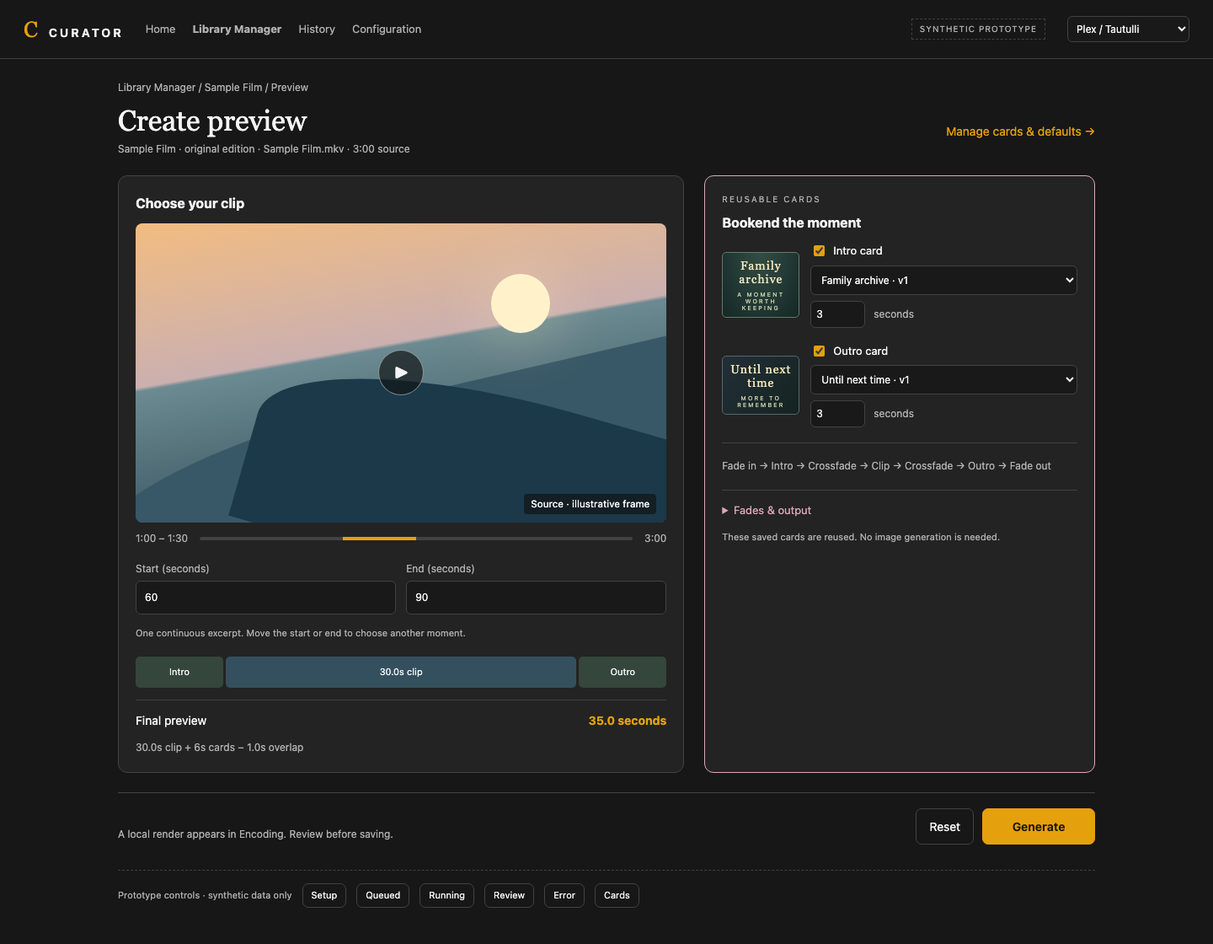
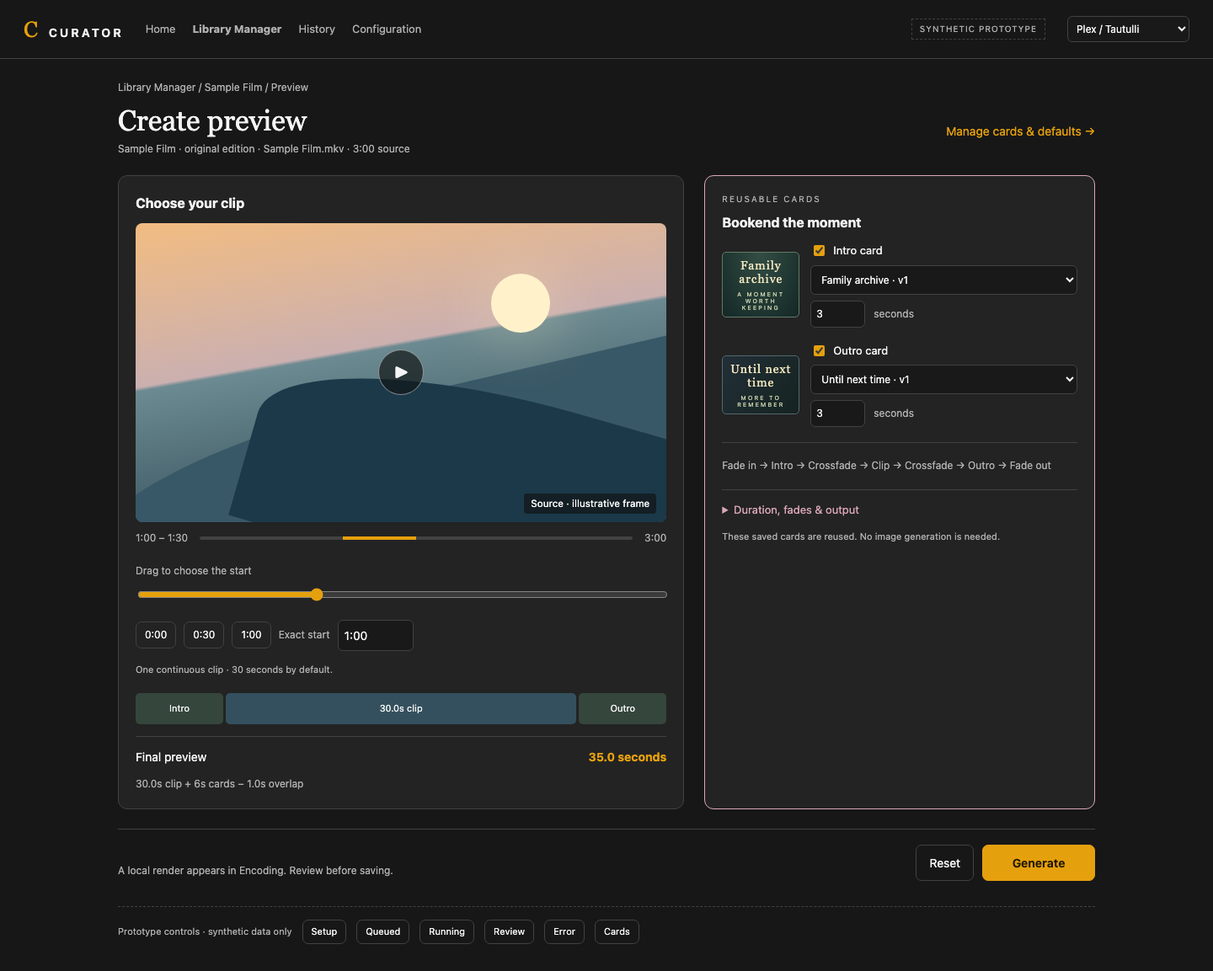
Use approved start slider and 30-second clip selection

diff --git a/docs/designs/v2-trailer-cards-20261121/prototype.html b/docs/designs/v2-trailer-cards-20261121/prototype.html
@@ -7,7 +7,7 @@
 :root{color-scheme:dark;--bg:#101415;--panel:#181e20;--field:#101718;--line:#303b3d;--text:#eceee8;--muted:#a3afac;--accent:#c8df9b;--ink:#182314;--pink:#e6adc7;--warn:#f3ba88}
 body[data-theme=cyberpunk]{--bg:#0a0c1b;--panel:#17182f;--field:#0c1023;--line:#42435f;--text:#f6eefb;--muted:#b9afc9;--accent:#ff62ce;--ink:#2b0c24;--pink:#ff62ce}
 body[data-theme=plex]{--bg:#171717;--panel:#232323;--field:#191919;--line:#424242;--text:#f5f5f5;--muted:#b2b2b2;--accent:#e5a00d;--ink:#201600;--pink:#dca8b9}
-*{box-sizing:border-box}body{margin:0;background:var(--bg);color:var(--text);font:14px/1.5 -apple-system,BlinkMacSystemFont,"Segoe UI",sans-serif}button,input,select{font:inherit}button,a{touch-action:manipulation}button{cursor:pointer;background:transparent;color:var(--text);border:1px solid var(--line);border-radius:7px;padding:10px 15px;white-space:nowrap}button:hover{border-color:var(--accent)}button:disabled{opacity:.45;cursor:default}button:focus-visible,input:focus-visible,select:focus-visible,a:focus-visible{outline:2px solid var(--accent);outline-offset:3px}.primary{background:var(--accent);color:var(--ink);border-color:var(--accent);font-weight:650;min-width:134px}.link{border:0;padding:6px 0;color:var(--accent);text-align:left}a{color:var(--accent)}input,select{color:var(--text);background:var(--field);border:1px solid var(--line);border-radius:6px;padding:10px;width:100%;min-width:0}input[type=checkbox]{width:auto;accent-color:var(--accent)}header{display:flex;align-items:center;gap:26px;padding:15px 28px;border-bottom:1px solid var(--line);min-height:70px}.brand{letter-spacing:3px;font-weight:650}.brand b{font:26px Georgia;color:var(--accent);margin-right:10px}header nav{display:flex;gap:20px;color:var(--muted);font-size:13px}.badge{margin-left:auto;font-size:10px;color:var(--muted);border:1px dashed var(--line);padding:4px 9px;letter-spacing:1px}.theme{width:145px;padding:6px;font-size:12px}main{max-width:1220px;margin:auto;padding:25px 30px 32px}.crumb{color:var(--muted);font-size:12px}.titlebar{display:flex;align-items:center;justify-content:space-between;gap:15px;margin:11px 0 22px}h1{font:34px Georgia,serif;margin:0 0 6px}h2{font-size:16px;margin:0 0 12px}h3{font-size:13px;margin:0 0 9px}p{margin:8px 0}.muted,small{color:var(--muted)}.muted{font-size:12px}.eyebrow{text-transform:uppercase;font-size:10px;letter-spacing:2px;color:var(--muted);margin-bottom:8px}.grid{display:grid;grid-template-columns:minmax(0,1.45fr) minmax(310px,1fr);gap:24px}.panel{background:var(--panel);border:1px solid var(--line);border-radius:11px;padding:20px;min-width:0}.inspector{border-color:var(--pink)}.scene{position:relative;aspect-ratio:16/9;overflow:hidden;border-radius:8px;background:linear-gradient(170deg,#f2bc81 0%,#cbb0b0 42%,#6c8a91 43%,#223d4b 100%);display:grid;place-items:center}.scene:before,.scene:after{content:"";position:absolute;width:130%;height:65%;left:-10%;bottom:-22%;background:#385867;transform:rotate(-13deg);border-radius:45% 0 0}.scene:after{left:20%;bottom:-31%;background:#1b3949;transform:rotate(16deg)}.sun{position:absolute;top:17%;left:67%;width:11%;aspect-ratio:1;border-radius:50%;background:#fff2cb;box-shadow:0 0 75px #ffe6b277}.scene .play{z-index:1;font-size:22px;border-radius:50%;width:54px;height:54px;padding:0;background:#101415b0;border-color:#fff7}.scene small{position:absolute;bottom:10px;right:12px;z-index:1;color:#fff;background:#101415b0;padding:3px 8px;border-radius:4px}.playerbar{display:flex;align-items:center;justify-content:space-between;gap:14px;margin:10px 0 18px;color:var(--muted);font-size:12px}.line{height:4px;border-radius:3px;background:var(--line);flex:1;position:relative}.line:after{content:"";position:absolute;left:33%;width:17%;height:4px;background:var(--accent)}.range{display:grid;grid-template-columns:1fr 1fr;gap:12px}.range label{font-size:12px;color:var(--muted);display:block}.range input{margin-top:5px}.timeline{display:flex;margin:20px 0 10px;height:37px;gap:3px;font-size:11px}.timeline div{display:grid;place-items:center;min-width:45px;border-radius:5px;background:#35463c;flex:3}.timeline .clip{flex:12;background:#34505e}.summary{display:flex;justify-content:space-between;gap:15px;padding:13px 0;border-top:1px solid var(--line);margin-top:14px}.summary strong{color:var(--accent)}.cardrow{display:grid;grid-template-columns:92px minmax(0,1fr);gap:13px;align-items:center;margin:10px 0 18px}.stock{aspect-ratio:16/9;background:radial-gradient(ellipse at top,#334d44,#142827);border:1px solid #627b64;display:flex;align-items:center;justify-content:center;flex-direction:column;border-radius:5px;color:#f2e6bd;text-align:center;padding:7px;line-height:1.15}.stock strong{font:14px Georgia,serif;letter-spacing:1px}.stock small{font-size:7px;letter-spacing:2px;color:#cad4ad;margin-top:6px}.stock.end{background:linear-gradient(130deg,#222f38,#152320);border-color:#53686c}.cardrow label{display:flex;align-items:center;gap:7px;margin-bottom:7px;font-size:13px}.cardrow select{font-size:12px;padding:8px}.duration{display:flex;align-items:center;gap:10px;margin-top:7px;font-size:12px;color:var(--muted)}.duration input{width:65px;padding:6px}.divider{border:0;border-top:1px solid var(--line);margin:16px 0}.flow{font-size:12px;color:var(--muted);line-height:1.9}details{border-top:1px solid var(--line);padding-top:14px;margin-top:16px}summary{cursor:pointer;color:var(--pink);font-size:13px}details .range{margin-top:14px}.footer{display:flex;justify-content:space-between;align-items:center;gap:15px;margin-top:23px;padding-top:18px;border-top:1px solid var(--line)}.footer .actions{display:flex;gap:10px}.note{font-size:11px;color:var(--muted);margin-top:14px}.error{color:var(--warn);font-size:12px;min-height:18px}.banner{border:1px solid #607454;background:#263328;border-radius:8px;padding:13px 16px;margin-bottom:20px;color:var(--text)}.job{max-width:800px;margin:26px auto}.job h1{font-size:30px}.jobbody{display:flex;gap:18px;align-items:center}.job .scene{width:185px;flex-shrink:0}.job .stock{width:150px}.pill{display:inline-block;border:1px solid var(--line);border-radius:20px;padding:4px 10px;color:var(--accent);font-size:12px;margin-bottom:14px}progress{width:100%;height:9px;accent-color:var(--accent);margin-top:14px}.demobar{margin-top:30px;border-top:1px dashed var(--line);padding-top:15px;display:flex;gap:12px;flex-wrap:wrap;align-items:center;font-size:11px;color:var(--muted)}.demobar button{font-size:11px;padding:5px 10px}.library{display:grid;grid-template-columns:repeat(2,1fr);gap:18px}.library .stock{aspect-ratio:16/9;max-width:350px;margin-bottom:13px}.library .stock strong{font-size:26px}.library .stock small{font-size:10px}.widefields{max-width:700px;margin-top:24px}dialog{background:var(--panel);color:var(--text);border:1px solid var(--pink);border-radius:12px;padding:24px;max-width:470px;width:90vw}dialog::backdrop{background:#020405bd}dialog .actions{display:flex;justify-content:flex-end;gap:10px;margin-top:20px}.skip{position:absolute;left:12px;top:-60px;background:var(--panel);padding:10px;z-index:10}.skip:focus{top:8px}
+*{box-sizing:border-box}body{margin:0;background:var(--bg);color:var(--text);font:14px/1.5 -apple-system,BlinkMacSystemFont,"Segoe UI",sans-serif}button,input,select{font:inherit}button,a{touch-action:manipulation}button{cursor:pointer;background:transparent;color:var(--text);border:1px solid var(--line);border-radius:7px;padding:10px 15px;white-space:nowrap}button:hover{border-color:var(--accent)}button:disabled{opacity:.45;cursor:default}button:focus-visible,input:focus-visible,select:focus-visible,a:focus-visible{outline:2px solid var(--accent);outline-offset:3px}.primary{background:var(--accent);color:var(--ink);border-color:var(--accent);font-weight:650;min-width:134px}.link{border:0;padding:6px 0;color:var(--accent);text-align:left}a{color:var(--accent)}input,select{color:var(--text);background:var(--field);border:1px solid var(--line);border-radius:6px;padding:10px;width:100%;min-width:0}input[type=checkbox]{width:auto;accent-color:var(--accent)}header{display:flex;align-items:center;gap:26px;padding:15px 28px;border-bottom:1px solid var(--line);min-height:70px}.brand{letter-spacing:3px;font-weight:650}.brand b{font:26px Georgia;color:var(--accent);margin-right:10px}header nav{display:flex;gap:20px;color:var(--muted);font-size:13px}.badge{margin-left:auto;font-size:10px;color:var(--muted);border:1px dashed var(--line);padding:4px 9px;letter-spacing:1px}.theme{width:145px;padding:6px;font-size:12px}main{max-width:1220px;margin:auto;padding:25px 30px 32px}.crumb{color:var(--muted);font-size:12px}.titlebar{display:flex;align-items:center;justify-content:space-between;gap:15px;margin:11px 0 22px}h1{font:34px Georgia,serif;margin:0 0 6px}h2{font-size:16px;margin:0 0 12px}h3{font-size:13px;margin:0 0 9px}p{margin:8px 0}.muted,small{color:var(--muted)}.muted{font-size:12px}.eyebrow{text-transform:uppercase;font-size:10px;letter-spacing:2px;color:var(--muted);margin-bottom:8px}.grid{display:grid;grid-template-columns:minmax(0,1.45fr) minmax(310px,1fr);gap:24px}.panel{background:var(--panel);border:1px solid var(--line);border-radius:11px;padding:20px;min-width:0}.inspector{border-color:var(--pink)}.scene{position:relative;aspect-ratio:16/9;overflow:hidden;border-radius:8px;background:linear-gradient(170deg,#f2bc81 0%,#cbb0b0 42%,#6c8a91 43%,#223d4b 100%);display:grid;place-items:center}.scene:before,.scene:after{content:"";position:absolute;width:130%;height:65%;left:-10%;bottom:-22%;background:#385867;transform:rotate(-13deg);border-radius:45% 0 0}.scene:after{left:20%;bottom:-31%;background:#1b3949;transform:rotate(16deg)}.sun{position:absolute;top:17%;left:67%;width:11%;aspect-ratio:1;border-radius:50%;background:#fff2cb;box-shadow:0 0 75px #ffe6b277}.scene .play{z-index:1;font-size:22px;border-radius:50%;width:54px;height:54px;padding:0;background:#101415b0;border-color:#fff7}.scene small{position:absolute;bottom:10px;right:12px;z-index:1;color:#fff;background:#101415b0;padding:3px 8px;border-radius:4px}.playerbar{display:flex;align-items:center;justify-content:space-between;gap:14px;margin:10px 0 18px;color:var(--muted);font-size:12px}.line{height:4px;border-radius:3px;background:var(--line);flex:1;position:relative}.line:after{content:"";position:absolute;left:33%;width:17%;height:4px;background:var(--accent)}.quickpicks{display:flex;align-items:center;gap:9px;flex-wrap:wrap;margin-top:8px}.quickpicks button{padding:6px 10px;font-size:12px}.range{display:grid;grid-template-columns:1fr 1fr;gap:12px}.range label{font-size:12px;color:var(--muted);display:block}.range input{margin-top:5px}.timeline{display:flex;margin:20px 0 10px;height:37px;gap:3px;font-size:11px}.timeline div{display:grid;place-items:center;min-width:45px;border-radius:5px;background:#35463c;flex:3}.timeline .clip{flex:12;background:#34505e}.summary{display:flex;justify-content:space-between;gap:15px;padding:13px 0;border-top:1px solid var(--line);margin-top:14px}.summary strong{color:var(--accent)}.cardrow{display:grid;grid-template-columns:92px minmax(0,1fr);gap:13px;align-items:center;margin:10px 0 18px}.stock{aspect-ratio:16/9;background:radial-gradient(ellipse at top,#334d44,#142827);border:1px solid #627b64;display:flex;align-items:center;justify-content:center;flex-direction:column;border-radius:5px;color:#f2e6bd;text-align:center;padding:7px;line-height:1.15}.stock strong{font:14px Georgia,serif;letter-spacing:1px}.stock small{font-size:7px;letter-spacing:2px;color:#cad4ad;margin-top:6px}.stock.end{background:linear-gradient(130deg,#222f38,#152320);border-color:#53686c}.cardrow label{display:flex;align-items:center;gap:7px;margin-bottom:7px;font-size:13px}.cardrow select{font-size:12px;padding:8px}.duration{display:flex;align-items:center;gap:10px;margin-top:7px;font-size:12px;color:var(--muted)}.duration input{width:65px;padding:6px}.divider{border:0;border-top:1px solid var(--line);margin:16px 0}.flow{font-size:12px;color:var(--muted);line-height:1.9}details{border-top:1px solid var(--line);padding-top:14px;margin-top:16px}summary{cursor:pointer;color:var(--pink);font-size:13px}details .range{margin-top:14px}.footer{display:flex;justify-content:space-between;align-items:center;gap:15px;margin-top:23px;padding-top:18px;border-top:1px solid var(--line)}.footer .actions{display:flex;gap:10px}.note{font-size:11px;color:var(--muted);margin-top:14px}.error{color:var(--warn);font-size:12px;min-height:18px}.banner{border:1px solid #607454;background:#263328;border-radius:8px;padding:13px 16px;margin-bottom:20px;color:var(--text)}.job{max-width:800px;margin:26px auto}.job h1{font-size:30px}.jobbody{display:flex;gap:18px;align-items:center}.job .scene{width:185px;flex-shrink:0}.job .stock{width:150px}.pill{display:inline-block;border:1px solid var(--line);border-radius:20px;padding:4px 10px;color:var(--accent);font-size:12px;margin-bottom:14px}progress{width:100%;height:9px;accent-color:var(--accent);margin-top:14px}.demobar{margin-top:30px;border-top:1px dashed var(--line);padding-top:15px;display:flex;gap:12px;flex-wrap:wrap;align-items:center;font-size:11px;color:var(--muted)}.demobar button{font-size:11px;padding:5px 10px}.library{display:grid;grid-template-columns:repeat(2,1fr);gap:18px}.library .stock{aspect-ratio:16/9;max-width:350px;margin-bottom:13px}.library .stock strong{font-size:26px}.library .stock small{font-size:10px}.widefields{max-width:700px;margin-top:24px}dialog{background:var(--panel);color:var(--text);border:1px solid var(--pink);border-radius:12px;padding:24px;max-width:470px;width:90vw}dialog::backdrop{background:#020405bd}dialog .actions{display:flex;justify-content:flex-end;gap:10px;margin-top:20px}.skip{position:absolute;left:12px;top:-60px;background:var(--panel);padding:10px;z-index:10}.skip:focus{top:8px}
 @media(max-width:850px){header nav{display:none}.grid{grid-template-columns:1fr}.titlebar{align-items:start}.library{grid-template-columns:1fr}.badge{display:none}main{padding:20px}.theme{margin-left:auto}h1{font-size:29px}}
 @media(max-width:450px){header{padding:12px 16px;gap:10px}.brand{font-size:12px;letter-spacing:2px}.brand b{margin-right:7px}.theme{width:116px;font-size:11px}main{padding:18px 14px}.panel{padding:16px}.titlebar{gap:8px}.titlebar>button{padding:7px 8px;font-size:11px}h1{font-size:27px}.footer{align-items:stretch;flex-direction:column}.footer .actions{justify-content:flex-end}.footer .primary{flex:1}.jobbody{align-items:start;flex-direction:column}.job .scene{width:100%}.cardrow{grid-template-columns:85px 1fr}.range{gap:10px}}
 </style>
@@ -20,14 +20,16 @@ body[data-theme=plex]{--bg:#171717;--panel:#232323;--field:#191919;--line:#42424
 <script>
 'use strict';
 const query=new URLSearchParams(location.search||location.hash.slice(1));
-const initial={start:60,end:90,intro:true,outro:true,introCard:'archive-intro',outroCard:'archive-outro',introSeconds:3,outroSeconds:3,crossfade:.5,blackFade:.35,audioFade:.5};
+const initial={start:60,end:90,duration:30,intro:true,outro:true,introCard:'archive-intro',outroCard:'archive-outro',introSeconds:3,outroSeconds:3,crossfade:.5,blackFade:.35,audioFade:.5};
 let draft={...initial},defaults={...initial},mode=query.get('s')||'setup',dirty=false,status=mode==='review'?'ready':mode==='failed'?'failed':mode==='running'?'running':'queued',paused=query.get('paused')==='1',saved=false,plan=null,message='',pending=null;
 const $=id=>document.getElementById(id),main=$('main');
-const time=n=>Number.isFinite(n)?`${Math.floor(n/60)}:${String(Math.round(n%60)).padStart(2,'0')}`:'—';
+const time=n=>{if(!Number.isFinite(n))return '—';const ms=Math.round(n*1000),sec=Math.floor(ms/1000),fraction=ms%1000,hours=Math.floor(sec/3600),minutes=Math.floor(sec%3600/60),seconds=String(sec%60).padStart(2,'0'),tail=fraction?'.'+String(fraction).padStart(3,'0').replace(/0+$/,''):'';return (hours?hours+':'+String(minutes).padStart(2,'0'):String(Math.floor(sec/60)))+':'+seconds+tail;};
+function parseTime(value){const text=value.trim();if(!/^(?:\d+:)?\d+:[0-5]\d(?:\.\d{1,3})?$/.test(text))return NaN;const parts=text.split(':').map(Number);if(parts.length===3&&parts[1]>=60)return NaN;return parts.reduce((total,part)=>total*60+part,0);}
+function syncRange(){draft.end=Number.isFinite(draft.start)&&Number.isFinite(draft.duration)?Math.min(180,draft.start+draft.duration):NaN;}
 function timing(d){const clip=d.end-d.start,overlap=(d.intro?d.crossfade:0)+(d.outro?d.crossfade:0);return {clip,overlap,total:clip+(d.intro?d.introSeconds:0)+(d.outro?d.outroSeconds:0)-overlap};}
 function problem(d){
  if(!Object.values(d).every(v=>typeof v!=='number'||Number.isFinite(v)))return 'Enter valid times.';
- const t=timing(d);if(d.start<0||d.end>180||t.clip<=0)return 'Choose a valid interval within the 3:00 source.';
+ const t=timing(d);if(d.duration<=0)return 'Choose a positive clip duration.';if(d.start<0||d.end>180||t.clip<=0)return 'Choose a valid interval within the 3:00 source.';
  if(d.crossfade<0||d.crossfade>2||d.blackFade<0||d.blackFade>2||d.audioFade<0||d.audioFade>2)return 'Fade durations must be between 0 and 2 seconds.';
  if((d.intro?d.crossfade:d.blackFade)+(d.outro?d.crossfade:d.blackFade)>t.clip||2*d.audioFade>t.clip)return 'The selected clip is too short for these fades.';
  if(d.intro&&(d.introSeconds<=0||d.introSeconds>10||d.blackFade+d.crossfade>d.introSeconds)||d.outro&&(d.outroSeconds<=0||d.outroSeconds>10||d.blackFade+d.crossfade>d.outroSeconds))return 'Cards must be longer than 0 and at most 10 seconds, with room for both transitions.';
@@ -37,11 +39,12 @@ function scene(label='Source · illustrative frame'){return `<div class="scene">
 function stock(end=false){return `<div class="stock ${end?'end':''}"><strong>${end?'Until next time':'Family archive'}</strong><small>${end?'MORE TO REMEMBER':'A MOMENT WORTH KEEPING'}</small></div>`;}
 function frame(title,sub,action=''){return `<div class="crumb">Library Manager / Sample Film / Preview</div><div class="titlebar"><div><h1>${title}</h1><div class="muted">${sub}</div></div>${action}</div>`;}
 function fieldsCard(end){const k=end?'outro':'intro',enabled=draft[k];return `<div class="cardrow">${stock(end)}<div><label><input type="checkbox" id="${k}" ${enabled?'checked':''}>${end?'Outro':'Intro'} card</label><select id="${k}Card" aria-label="${k} card" ${enabled?'':'disabled'}><option value="archive-${k}">${end?'Until next time':'Family archive'} · v1</option></select><div class="duration"><input id="${k}Seconds" type="number" min="0.1" max="10" step="0.1" value="${draft[k+'Seconds']}" aria-label="${k} duration" ${enabled?'':'disabled'}>seconds</div></div></div>`;}
-function setup(){main.innerHTML=frame('Create preview','Sample Film · original edition · Sample Film.mkv · 3:00 source','<button class="link" id="cards">Manage cards & defaults →</button>')+`<div class="grid"><section class="panel"><h2>Choose your clip</h2>${scene()}<div class="playerbar"><span id="rangeLabel">${time(draft.start)} – ${time(draft.end)}</span><div class="line"></div><span>3:00</span></div><div class="range"><label>Start (seconds)<input id="start" type="number" min="0" max="179" step="0.1" value="${draft.start}"></label><label>End (seconds)<input id="end" type="number" min="0.1" max="180" step="0.1" value="${draft.end}"></label></div><p class="note">One continuous excerpt. Move the start or end to choose another moment.</p><div class="timeline" id="timeline"></div><div class="summary"><span>Final preview</span><strong id="total"></strong></div><div class="muted" id="math"></div></section><section class="panel inspector"><div class="eyebrow">Reusable cards</div><h2>Bookend the moment</h2>${fieldsCard(false)}${fieldsCard(true)}<hr class="divider"><div class="flow" id="transitionFlow"></div><details><summary>Fades & output</summary><div class="range">${[['crossfade','Crossfade (seconds)'],['blackFade','Black fade (seconds)'],['audioFade','Audio fade (seconds)']].map(([id,label])=>`<label>${label}<input id="${id}" type="number" min="0" max="2" step="0.05" value="${draft[id]}"></label>`).join('')}</div><p class="note">MP4 · H.264 / AAC · up to 720p · original aspect ratio<br>Source audio with fades · no added music<br>Cards fit on black · no crop or stretch</p></details><p class="note">These saved cards are reused. No image generation is needed.</p></section></div><div class="footer"><div><div class="error" id="error"></div><div class="muted">${paused?'Encoding is paused. Your preview will wait in Queue.':'A local render appears in Encoding. Review before saving.'}</div></div><div class="actions"><button id="reset">Reset</button><button class="primary" id="generate">Generate</button></div></div>`;
- for(const id of Object.keys(draft)){const input=$(id);if(!input)continue;input.oninput=()=>{draft[id]=input.type==='checkbox'?input.checked:input.type==='number'?input.valueAsNumber:input.value;dirty=true;if(input.type==='checkbox'){const focus=id;setup();$(focus).focus();}else update();};}
+function setup(){main.innerHTML=frame('Create preview','Sample Film · original edition · Sample Film.mkv · 3:00 source','<button class="link" id="cards">Manage cards & defaults →</button>')+`<div class="grid"><section class="panel"><h2>Choose your clip</h2>${scene()}<div class="playerbar"><span id="rangeLabel">${time(draft.start)} – ${time(draft.end)}</span><div class="line"></div><span>3:00</span></div><label class="muted" for="startSlider">Drag to choose the start</label><input id="startSlider" type="range" min="0" max="179.9" step="0.1" value="${draft.start}" aria-label="Clip start position" style="accent-color:var(--accent);padding:8px 0"><div class="quickpicks"><button data-start="0">0:00</button><button data-start="30">0:30</button><button data-start="60">1:00</button><label class="muted" for="startTime">Exact start</label><input id="startTime" type="text" inputmode="decimal" value="${time(draft.start)}" aria-label="Exact start timestamp" style="width:90px;padding:7px"></div><p class="note">One continuous clip · 30 seconds by default.</p><p class="note" id="shortened"></p><div class="timeline" id="timeline"></div><div class="summary"><span>Final preview</span><strong id="total"></strong></div><div class="muted" id="math"></div></section><section class="panel inspector"><div class="eyebrow">Reusable cards</div><h2>Bookend the moment</h2>${fieldsCard(false)}${fieldsCard(true)}<hr class="divider"><div class="flow" id="transitionFlow"></div><details><summary>Duration, fades & output</summary><div class="range"><label>Clip duration (seconds)<input id="duration" type="number" min="0.1" step="0.1" value="${draft.duration}"></label>${[['crossfade','Crossfade (seconds)'],['blackFade','Black fade (seconds)'],['audioFade','Audio fade (seconds)']].map(([id,label])=>`<label>${label}<input id="${id}" type="number" min="0" max="2" step="0.05" value="${draft[id]}"></label>`).join('')}</div><p class="note">MP4 · H.264 / AAC · up to 720p · original aspect ratio<br>Source audio with fades · no added music<br>Cards fit on black · no crop or stretch</p></details><p class="note">These saved cards are reused. No image generation is needed.</p></section></div><div class="footer"><div><div class="error" id="error"></div><div class="muted">${paused?'Encoding is paused. Your preview will wait in Queue.':'A local render appears in Encoding. Review before saving.'}</div></div><div class="actions"><button id="reset">Reset</button><button class="primary" id="generate">Generate</button></div></div>`;
+ for(const id of Object.keys(draft)){const input=$(id);if(!input)continue;input.oninput=()=>{draft[id]=input.type==='checkbox'?input.checked:input.type==='number'?input.valueAsNumber:input.value;dirty=true;if(id==='duration')syncRange();if(input.type==='checkbox'){const focus=id;setup();$(focus).focus();}else update();};}
+ $('startSlider').oninput=()=>{draft.start=$('startSlider').valueAsNumber;$('startTime').value=time(draft.start);syncRange();dirty=true;update();};$('startTime').oninput=()=>{draft.start=parseTime($('startTime').value);syncRange();dirty=true;update();};document.querySelectorAll('[data-start]').forEach(b=>b.onclick=()=>{draft.start=Number(b.dataset.start);$('startTime').value=time(draft.start);syncRange();dirty=true;update();});
  $('cards').onclick=()=>navigate('cards');$('reset').onclick=()=>{draft={...defaults};dirty=false;setup();};$('generate').onclick=()=>{if(problem(draft))return;plan=structuredClone(draft);dirty=false;saved=false;status='queued';mode='job';message='Preview queued in Encoding.';render();};update();
 }
-function update(){const t=timing(draft),error=problem(draft);$('rangeLabel').textContent=time(draft.start)+' – '+time(draft.end);$('total').textContent=error?'Check times':t.total.toFixed(1)+' seconds';$('math').textContent=error?'Adjust the times above before generating.':`${t.clip.toFixed(1)}s clip + ${(draft.intro?draft.introSeconds:0)+(draft.outro?draft.outroSeconds:0)}s cards − ${t.overlap.toFixed(1)}s overlap`; $('error').textContent=error;$('generate').disabled=!!error;$('transitionFlow').textContent=[draft.blackFade?'Fade in':'Start',...(draft.intro?['Intro',draft.crossfade?'Crossfade':'Cut']:[]),'Clip',...(draft.outro?[draft.crossfade?'Crossfade':'Cut','Outro']:[]),draft.blackFade?'Fade out':'End'].join(' → ');$('timeline').innerHTML=(draft.intro?'<div>Intro</div>':'')+`<div class="clip">${error?'Clip':t.clip.toFixed(1)+'s clip'}</div>`+(draft.outro?'<div>Outro</div>':'');}
+function update(){const t=timing(draft),error=problem(draft);$('rangeLabel').textContent=time(draft.start)+' – '+time(draft.end);if(Number.isFinite(draft.start))$('startSlider').value=draft.start;$('shortened').textContent=Number.isFinite(t.clip)&&t.clip>0&&t.clip<draft.duration?'Only '+t.clip.toFixed(1)+' seconds remain. This preview uses '+time(draft.start)+'–'+time(draft.end)+'; the start stays where you placed it.':'';$('total').textContent=error?'Check times':t.total.toFixed(1)+' seconds';$('math').textContent=error?'Adjust the times above before generating.':`${t.clip.toFixed(1)}s clip + ${(draft.intro?draft.introSeconds:0)+(draft.outro?draft.outroSeconds:0)}s cards − ${t.overlap.toFixed(1)}s overlap`; $('error').textContent=error;$('generate').disabled=!!error;$('transitionFlow').textContent=[draft.blackFade?'Fade in':'Start',...(draft.intro?['Intro',draft.crossfade?'Crossfade':'Cut']:[]),'Clip',...(draft.outro?[draft.crossfade?'Crossfade':'Cut','Outro']:[]),draft.blackFade?'Fade out':'End'].join(' → ');$('timeline').innerHTML=(draft.intro?'<div>Intro</div>':'')+`<div class="clip">${error?'Clip':t.clip.toFixed(1)+'s clip'}</div>`+(draft.outro?'<div>Outro</div>':'');}
 function cards(){main.innerHTML=frame('Trailer cards','Configuration / Preview defaults','<button class="link" id="return">← Back to preview</button>')+`<div class="library"><section class="panel">${stock()}<h2>Family archive</h2><p class="muted">Intro · PNG · 1920 × 1080 · version 1</p><p class="note">Synthetic placeholder for your finished artwork.</p></section><section class="panel">${stock(true)}<h2>Until next time</h2><p class="muted">Outro · PNG · 1920 × 1080 · version 1</p><p class="note">Synthetic placeholder for your finished artwork.</p></section></div><div class="widefields panel"><h2>Default timing</h2><div class="range">${[['introSeconds','Intro duration'],['outroSeconds','Outro duration'],['crossfade','Crossfade'],['blackFade','Fade from / to black']].map(([key,label])=>`<label>${label} (seconds)<input data-default="${key}" type="number" min="0" max="10" step="0.1" value="${defaults[key]}"></label>`).join('')}</div><p class="note">Defaults apply to new previews. Existing jobs retain the exact card version and settings you reviewed.</p><button class="primary" id="saveDefaults">Save defaults</button><span class="muted" id="savedDefaults"></span></div>`;$('return').onclick=()=>{mode='setup';render();};$('saveDefaults').onclick=()=>{const next={...defaults};document.querySelectorAll('[data-default]').forEach(el=>next[el.dataset.default]=el.valueAsNumber);const error=problem(next);if(error){$('savedDefaults').textContent=' '+error;return;}defaults=next;$('savedDefaults').textContent=' Saved for this prototype.';};}
 function job(){const d=plan||draft;main.innerHTML=frame('Preview generation','Queue / Encoding')+(message?`<div class="banner">${message}</div>`:'')+`<section class="panel job"><span class="pill">${status==='running'?'Rendering locally':status==='ready'?'Ready to review':status==='failed'?'Needs attention':paused?'Waiting · Encoding paused':'Queued · Encoding'}</span><div class="jobbody">${scene('Synthetic preview job')}<div><h2>Sample Film · preview</h2><p>${time(d.start)} – ${time(d.end)} · ${timing(d).total.toFixed(1)} seconds total</p><p class="muted">${d.intro?'Family archive v1':'No intro'} / ${d.outro?'Until next time v1':'No outro'}</p><p class="muted">${status==='failed'?'Source changed. The earlier candidate is retained; review a fresh plan.':status==='ready'?'Review the result before selecting it.':paused?'Your job is safely queued. Resume Encoding when ready.':'You can keep working. Find this job in Encoding.'}</p>${status==='running'?'<progress value="42" max="100">42%</progress>':''}${status==='ready'?'<button class="primary" id="review">Review preview</button>':status==='failed'?'<button id="adjust">Review fresh plan</button>':''}</div></div></section>`;if($('review'))$('review').onclick=()=>{mode='review';render();};if($('adjust'))$('adjust').onclick=()=>{draft={...d};mode='setup';dirty=false;render();};}
 function review(){const d=plan||draft;main.innerHTML=frame('Review preview','Sample Film · candidate 2 · previous selection retained')+(saved?'<div class="banner">Saved as this film’s preview in Curator.</div>':'')+`<div class="grid"><section class="panel">${scene('Candidate · synthetic playback')}<div class="playerbar"><button class="link" data-play>▶ Play preview</button><div class="line"></div><span>${timing(d).total.toFixed(1)}s</span><button class="link" id="sound">Sound off</button></div><p class="muted">${time(d.start)} – ${time(d.end)} source interval · original aspect ratio</p></section><section class="panel inspector"><div class="eyebrow">Candidate details</div><h2>A saved moment, neatly framed</h2><div class="cardrow">${stock()}<div><strong>${d.intro?'Family archive · v1':'Intro disabled'}</strong><div class="muted">${d.intro?d.introSeconds+' seconds':'0 seconds'}</div></div></div><div class="cardrow">${stock(true)}<div><strong>${d.outro?'Until next time · v1':'Outro disabled'}</strong><div class="muted">${d.outro?d.outroSeconds+' seconds':'0 seconds'}</div></div></div><p class="flow">${d.crossfade}s crossfades · ${d.blackFade}s black fades<br>Source audio · ${d.audioFade}s audio fades<br>Local MP4 · no image-generation calls</p><button class="link" id="adjust">Adjust & generate another</button><hr class="divider"><button id="publishButton">Publish trailer to Plex…</button><p class="note">A separate approval. Your movie and prior trailer are preserved.</p></section></div><div class="footer"><span class="muted">${saved?'Curator selection saved. Plex publication is separate.':'Save only the candidate you want to use.'}</span><div class="actions"><button id="discardCandidate">Discard candidate</button><button class="primary" id="use" ${saved?'disabled':''}>${saved?'Saved in Curator':'Use in Curator'}</button></div></div>`;$('sound').onclick=()=>{$('sound').textContent=$('sound').textContent==='Sound off'?'Sound on':'Sound off';};$('adjust').onclick=()=>{draft={...d};mode='setup';render();};$('use').onclick=()=>{saved=true;render();};$('discardCandidate').onclick=()=>{saved=false;mode='setup';message='';render();};$('publishButton').onclick=()=>$('publish').showModal();}

diff --git a/docs/designs/v2-trailer-cards-20261121/README.md b/docs/designs/v2-trailer-cards-20261121/README.md
@@ -1,6 +1,6 @@
 # Trailer cards and preview workflow
 
-Design for #138 / parent #137. **Proposed; awaiting operator render approval and independent final-head review.** Baseline: v2 `d0782b2c46d5c3dd790ef1cb83ac8ce184517833`.
+Design for #138 / parent #137. **Operator approved the displayed direction and the clip-selection interaction on 2026-11-21; independent final-head review and the remaining proposed defaults are pending.** Baseline: v2 `d0782b2c46d5c3dd790ef1cb83ac8ce184517833`.
 
 This package is a standalone HTML prototype with synthetic names, illustrations and cards. It calls no API, processes no footage, reads no private library and spends no credits. Its playback buttons illustrate controls; they are not a rendered-video demo. It is not served by Curator. The finished card artwork will be supplied by the operator (#139); the typography/illustrations here are placeholders, not proposed finished artwork.
 
@@ -12,6 +12,7 @@ This package is a standalone HTML prototype with synthetic names, illustrations 
 - Fade from black to intro, crossfade into the clip, crossfade to the outro, fade to black; source audio fades in/out.
 - FFmpeg composition is local; never generate images as part of rendering a preview.
 - Explicit Curator selection and separate Plex-publication approval; preserve originals and previous candidates/trailers.
+- A draggable start-position slider with a 30-second default excerpt, quick picks at 0:00 / 0:30 / 1:00 and an exact timestamp field. Duration is editable under Advanced. Near the end, show the available shorter range without silently moving the chosen start.
 
 The exact durations/output profile below remain **proposed defaults**. No operator approval of these defaults is inferred from approval of the basic feature.
 
@@ -19,7 +20,7 @@ The exact durations/output profile below remain **proposed defaults**. No operat
 
 Open `prototype.html`; query `?s=setup`, `?s=cards`, `?s=queued&paused=1`, `?s=running`, `?s=review` or `?s=failed` selects a scenario. `theme=classic|cyberpunk|plex` selects appearance. The visibly separate Prototype controls switch scenarios. No route is a deployed Curator route.
 
-- Setup: one source/player and interval; two independently optional card selectors; duration and overlap calculation. Fades/output are collapsed to keep the main screen simple.
+- Setup: one source/player, draggable start slider, quick picks and exact timestamp; two independently optional card selectors; duration and overlap calculation. Duration/fades/output are collapsed to keep the main screen simple. A near-end message shows the shortened clip explicitly; invalid fade overlap still blocks Generate.
 - Cards/defaults: preview saved versions and edit default timing. Saving updates this prototype's in-memory defaults only; existing draft/job values are retained. Library import/version behavior is specified in the contract and implemented by #140.
 - Generate closes setup and shows one Encoding job. A paused queue explicitly shows Waiting. There is no second Generate action floating over an already submitted job.
 - Review: candidate playback/sound controls, adjust/discard, explicit Use in Curator and a separate Publish to Plex confirmation.
@@ -32,7 +33,7 @@ The synthetic player and simulated publication receipt are illustrative only. Ac
 
 | Setting | Proposal | Rule |
 | --- | --- | --- |
-| Suggested interval | 1:00–1:30, where valid | Short/unknown sources require an explicit valid interval; never silently choose ending footage |
+| Clip selection | Start slider + quick picks + exact timestamp; 30-second default | Approved interaction. Initial suggested start remains proposed; near the end preserve start and display the shorter available range |
 | Cards | Optional intro and outro; 3 seconds each | Select exact saved versions; either or both may be disabled |
 | Crossfades | 0.5 seconds at enabled card/clip boundaries | Overlap shortens total duration; the whole source interval remains present, with blended edge frames |
 | Black fades | 0.35 seconds at the first/last visual segment | Change opacity, not total duration |

diff --git a/docs/polished-preview-spec.md b/docs/polished-preview-spec.md
@@ -14,7 +14,7 @@ Use original footage and original sound. Preserve the film's identity, compositi
 
 | ID | Feature | Required behavior |
 | --- | --- | --- |
-| PRE-01 | Choose an excerpt | Select an exact movie/edition/file and start time; preview the proposed source interval. Provide a configurable initial suggestion and manual adjustment. |
+| PRE-01 | Choose an excerpt | Select an exact movie/edition/file, drag a start-position slider or use 0:00 / 0:30 / 1:00 quick picks and an exact timestamp. Default length is 30 seconds; duration is editable under Advanced. Preview the resulting source interval. |
 | PRE-02 | Natural boundaries | Offer a bounded scene-boundary adjustment near the selected interval. Show the actual resulting time range. Manual time selection remains usable when no suitable boundary is found. |
 | PRE-03 | Polish | Fade from black onto the intro, crossfade to the excerpt, crossfade to the outro and fade to black; fade source audio in/out. Cards are independently optional. Preserve footage geometry and selected original audio; no generative restyling. |
 | PRE-04 | Generate and review | Render locally as a background task, play the result, adjust settings, or select another moment. Keep the previous candidate until its replacement is ready. |
@@ -45,7 +45,7 @@ Show the **total** output duration, including crossfade overlap. For example, 3-
 ## 3. User flow
 
 1. From the movie's existing work area, choose **Create preview**. Identify the library, edition/file and whether a preview/trailer already exists.
-2. Show a source frame/player with start time and duration controls. Provide **Use this moment**, an optional natural-boundary adjustment, and a way to move to another moment. Never imply this analyzes or summarizes the whole movie.
+2. Show a source frame/player with draggable start slider, quick picks and exact timestamp input. Use 30 seconds from that point by default; Advanced exposes duration. Show the resulting interval and let the operator play it before Generate. If less footage remains, display the shortened interval without moving the selected start; invalid overlaps still require correction. Optional natural-boundary adjustment remains explicit and bounded. Never imply this analyzes or summarizes the whole movie.
 3. Select reusable intro/outro cards or turn either off. Show their versions, duration, fit, effective fades, chosen audio track/output settings and overlap-aware total length. Settings → trailer cards/defaults manages the reusable set; no paid generation is involved.
 4. Choose **Generate**. Submission closes the setup view and exposes the durable job in the existing Encoding lane, without a sixth top-level queue. A paused queue clearly reports Waiting and is not implicitly resumed. The operator can keep working and return without losing draft/playback context.
 5. Play the result and choose **Use in Curator**, **Adjust**, **Try another moment**, or **Discard**. Adjustments create a new candidate and do not replace the approved preview automatically.

diff --git a/docs/designs/v2-trailer-cards-20261121/contract.md b/docs/designs/v2-trailer-cards-20261121/contract.md
@@ -31,6 +31,8 @@ A source draft shows defaults plus only its explicit overrides. A defaults chang
 
 All UI/API durations use integer milliseconds. The server validates and normalizes them to the frozen output frame/audio profile, then returns the effective values/duration for review. Do not send raw FFmpeg filter strings or trust client-supplied paths/hashes.
 
+Approved clip-selection interaction: drag the start slider, choose a quick pick (0:00 / 0:30 / 1:00) or enter an exact `M:SS[.sss]` / `H:MM:SS[.sss]` timestamp. Default requested length is 30 seconds; Advanced can change it. Effective end is `min(start + requested length, verified source duration)`. Display the full effective range and a clear shortening message before Generate when less footage remains. Never move the start backward to keep a 30-second length. Unknown duration, no remaining footage or invalid fade overlap still prevents planning.
+
 Proposed request fields:
 
 ```json
@@ -38,6 +40,7 @@ Proposed request fields:
   "asset": "synthetic-asset",
   "asset_version": "server-snapshot-token",
   "range": {"start_ms": 60000, "end_ms": 90000},
+  "requested_duration_ms": 30000,
   "intro": {"card": "synthetic-intro", "version": 1, "duration_ms": 3000},
   "outro": {"card": "synthetic-outro", "version": 1, "duration_ms": 3000},
   "transitions": {"crossfade_ms": 500, "black_fade_ms": 350, "audio_fade_ms": 500},
@@ -58,6 +61,7 @@ Outer black fades do not shorten the output. Audio fades are within the chosen c
 Validation before Generate:
 
 - Finite, nonnegative integer values; source interval must be within a verified source duration and `C > 0`.
+- Requested duration must be positive. Reject a client range inconsistent with the start/requested-duration/source-length calculation. Return explicit `shortened` and effective interval/length fields; the plan token binds both requested and effective values.
 - Proposed UI limits: enabled card duration greater than zero and at most 10 seconds; each transition/fade 0–2 seconds. These bounds are proposed until approved.
 - Let the source's first transition be `X1` when intro exists, otherwise the black fade; let its last transition be `X2` when outro exists, otherwise the black fade. Their sum must not exceed `C`.
 - For an intro, `black fade + X1 <= I`; for an outro, `X2 + black fade <= O`.
